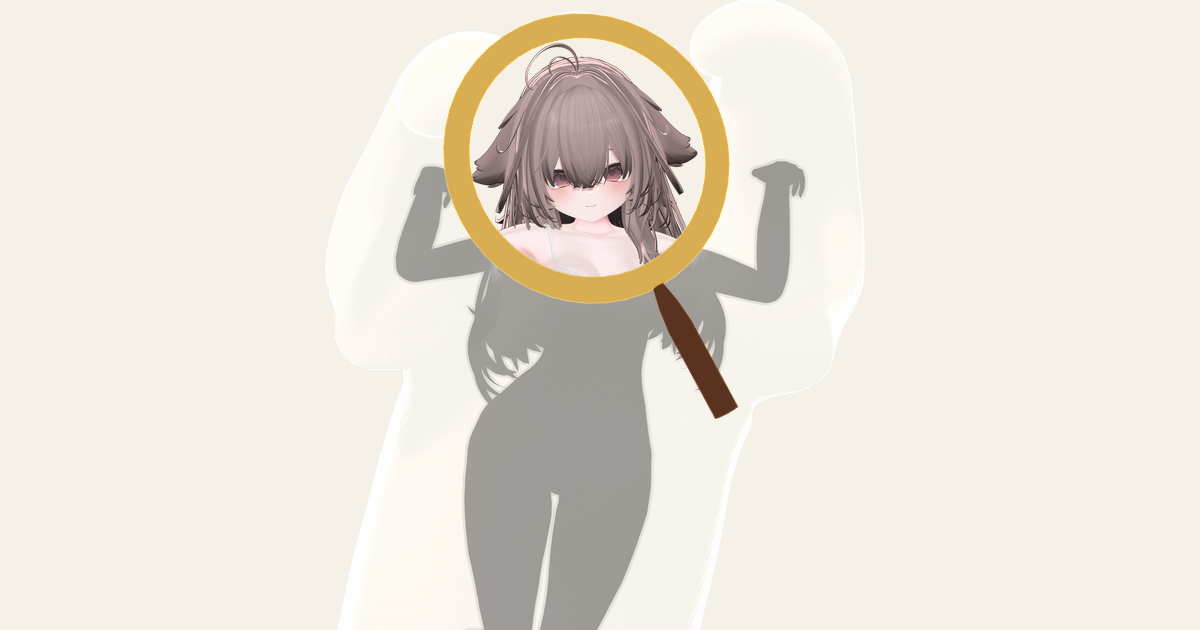
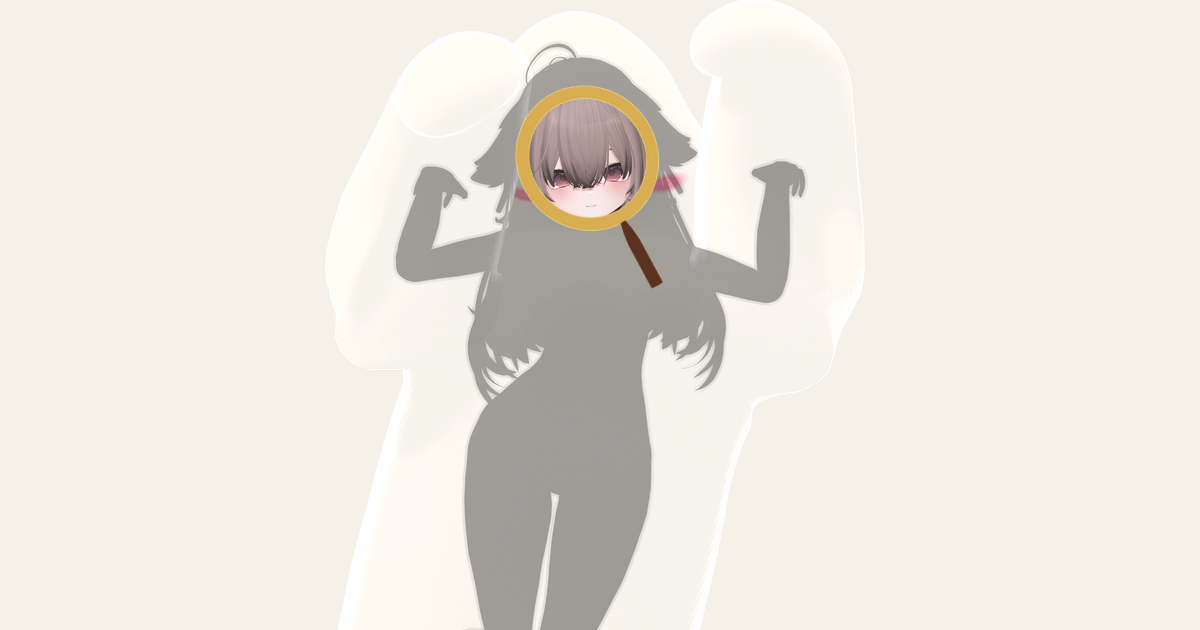
Halve magnifier size

Changed region(s): [[0.37, 0.0, 0.6167, 0.6635]]

diff --git a/embed.html b/embed.html
@@ -20,7 +20,7 @@
 <script>
 // 虫眼鏡画像(1046x1587)のレンズ内側の中心と直径
 const LENS = { cx: 524.5, cy: 546, d: 789 };
-const LENS_D = 0.36;   // レンズ内側の直径（キャラ画像サイズに対する割合）
+const LENS_D = 0.18;   // レンズ内側の直径（キャラ画像サイズに対する割合）
 const ROTATE = -30;    // 柄の傾き(度)
 const ZOOM = 1.0;      // レンズ内の拡大率（1 でシルエットとぴったり重なる）
 
